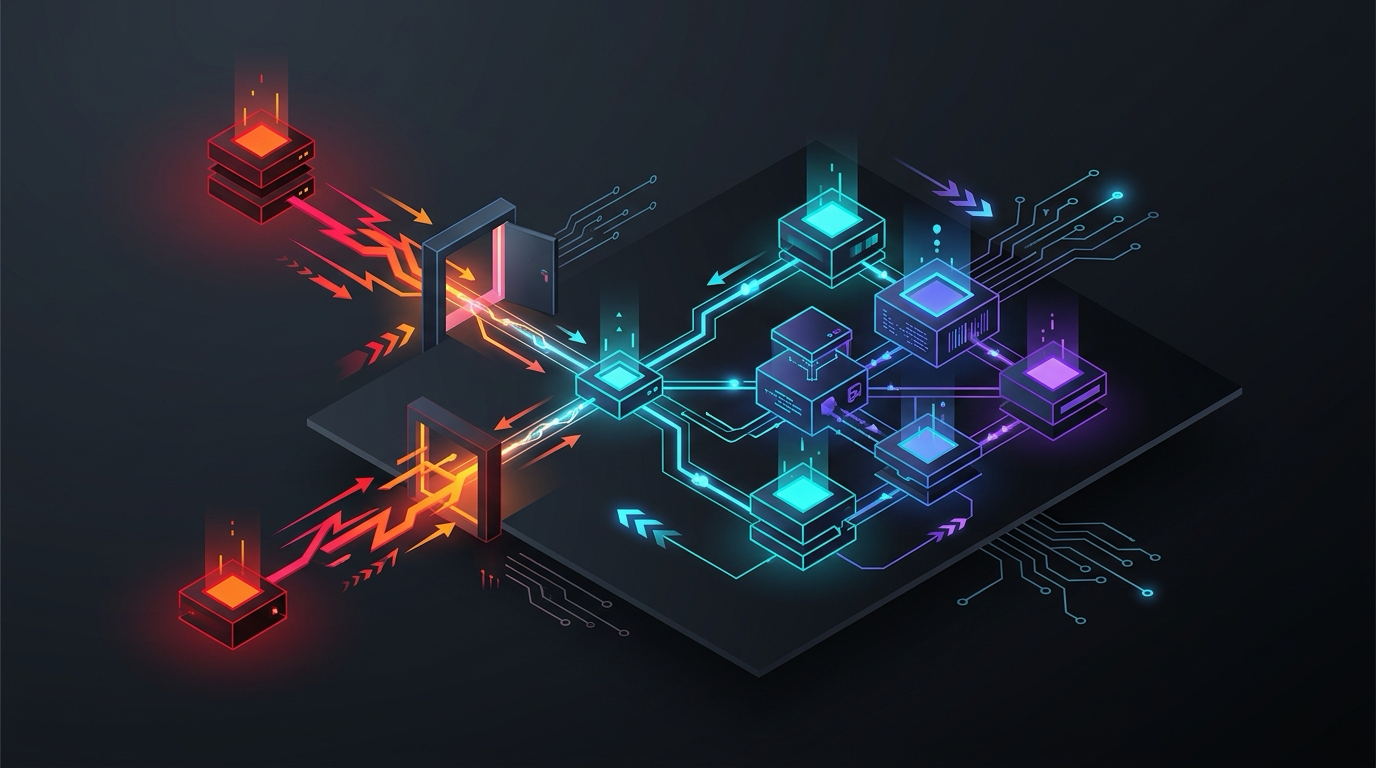
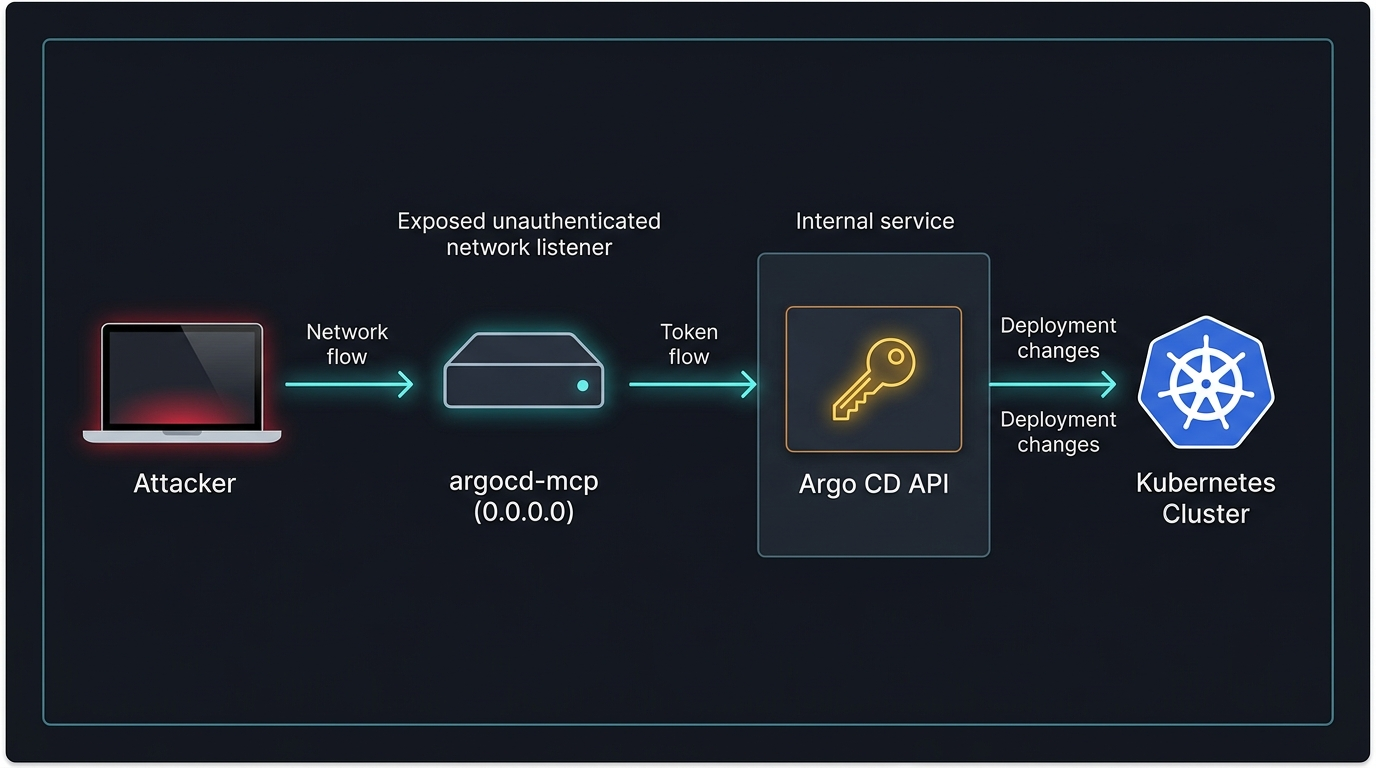
Make CVE post images concrete: real labels, hypothetical scenarios, product marks
Images were vague/generic (a circuit board glowing red regardless of what
the CVE actually was). Reworked the pipeline so the researched claude -p
call also authors per-image "image_scenes" (hero/diagram/impact), each
grounded in the actual facts it found for THIS vulnerability - real
component/product names as short labels, a genuine infographic-style flow
diagram for the attack path, hypothetical scenario art for hero/impact,
and recognizable product marks (e.g. Kubernetes) as editorial illustration
where genuinely relevant instead of a blanket "no text/no logos" rule.

Bumped AGY_TIMEOUT_SEC 300->420 and AGY_ATTEMPTS 2->3 for the added
complexity; retested and all 3 images succeeded on the first attempt.

Replaced today's argocd-mcp post's 3 images with new ones built from the
same real facts (attacker -> argocd-mcp (0.0.0.0) -> Argo CD API ->
Kubernetes Cluster diagram; Kubernetes-wheel-mark impact art) - same
filenames, no article text changes needed.

Claude-Session: https://claude.ai/code/session_01PsSAnhszVNbm1Sy5EPmtGm

diff --git a/scripts/daily_cve_post.py b/scripts/daily_cve_post.py
@@ -43,48 +43,68 @@ GENERIC_HERO = {
 
 ASSETS_DIR = REPO_ROOT / "public" / "assets" / "cve"
 SITE_BASE = "/exceptional-blogs/"  # must match vite.config.ts `base`
-AGY_TIMEOUT_SEC = 300
-AGY_ATTEMPTS = 2
+AGY_TIMEOUT_SEC = 420
+AGY_ATTEMPTS = 3
 
 
-def generate_images(c: dict, slug: str) -> dict:
+FALLBACK_SCENES = {
+    "hero": {"description": "A hypothetical scenario illustration: an attacker "
+             "figure reaching through an open gate into a server room.", "labels": []},
+    "diagram": {"description": "A technical flow diagram: attacker box, arrow "
+                "into the vulnerable component, arrow into what it exposes.",
+                "labels": ["Attacker", "Vulnerable Service", "Compromised System"]},
+    "impact": {"description": "A scenario illustration of the breach's real-world "
+               "consequence spreading outward from the compromised system.", "labels": []},
+}
+
+
+def generate_images(c: dict, slug: str, image_scenes: dict | None = None) -> dict:
     """Ask agy for 3 dedicated images (hero + 2 inline) for this post.
+
+    image_scenes (from the researched claude -p call, see build_prompt's
+    "image_scenes" key) grounds each image in what actually happened for
+    THIS CVE - real component/product names as short labels, a genuine
+    infographic-style diagram for the attack flow, a hypothetical scenario
+    depiction for the hero/impact - rather than a generic circuit-board
+    cliche reused every time. Falls back to FALLBACK_SCENES if missing.
 
     Never blocks a post on image failure - any image agy fails to produce
     is simply omitted, and write_article() falls back to GENERIC_HERO for
-    the hero slot if needed. Kept all three prompts abstract (no requested
-    labeled text/diagrams) - a labeled-diagram request measurably took much
-    longer and timed out more often in testing than plain abstract art.
+    the hero slot if needed.
     """
     ASSETS_DIR.mkdir(parents=True, exist_ok=True)
+    scenes = image_scenes if isinstance(image_scenes, dict) else {}
     specs = [
         ("hero", "hero/banner image (1200x630)",
-         f"an abstract technical illustration for a blog post about {c['cve_id']}, a "
-         f"{c['severity']} severity vulnerability (CVSS {c['cvss']}). Circuit/network "
-         "motif, dark background, a red accent marking the vulnerability point. No "
-         "text or lettering anywhere in the image.",
+         scenes.get("hero") or FALLBACK_SCENES["hero"],
          "Hero illustration of the vulnerability."),
-        ("diagram", "abstract illustration",
-         "an abstract illustration representing the attack flow for this bug: "
-         f"{c['description'][:300]}. Convey intrusion/data flow through visual "
-         "metaphor only (arrows, connected nodes, a breach point) - no readable "
-         "text, labels, or logos anywhere in the image, dark theme matching a "
-         "security blog.",
-         "Illustration of the vulnerable component interaction."),
-        ("impact", "abstract illustration",
-         f"an abstract illustration representing the real-world impact or blast radius "
-         f"of exploiting {c['cve_id']} (CVSS {c['cvss']}). Dark theme, no text.",
+        ("diagram", "technical infographic diagram",
+         scenes.get("diagram") or FALLBACK_SCENES["diagram"],
+         "Diagram of the vulnerable component interaction."),
+        ("impact", "scenario illustration",
+         scenes.get("impact") or FALLBACK_SCENES["impact"],
          "Illustration of the vulnerability's real-world impact."),
     ]
     images = {}
-    for name, kind, prompt, caption in specs:
+    for name, kind, scene, caption in specs:
         path = ASSETS_DIR / f"{slug}-{name}.png"
+        description = scene.get("description") if isinstance(scene, dict) else str(scene)
+        labels = scene.get("labels") if isinstance(scene, dict) else []
+        labels_line = (
+            f" Include these short labels legibly in the image where they fit "
+            f"naturally: {', '.join(labels)}." if labels else " No text or labels needed."
+        )
         for attempt in range(AGY_ATTEMPTS):
             try:
                 result = subprocess.run(
                     ["agyw", "-p",
                      f"Generate a {kind} and save it as a PNG to the absolute path "
-                     f"{path}. The image should show {prompt}",
+                     f"{path}. The scene: {description}{labels_line} Dark theme "
+                     "matching a security blog. Any product/platform marks shown "
+                     "should be depicted as editorial illustration (commentary on "
+                     "a real vulnerability), not as official vendor artwork - "
+                     "never fabricate a CVE score, statistic, or company name not "
+                     "listed above.",
                      "--dangerously-skip-permissions"],
                     capture_output=True, text=True, timeout=AGY_TIMEOUT_SEC,
                 )
@@ -187,6 +207,10 @@ Output ONLY a single JSON object (no markdown code fences, no commentary before 
 - "excerpt": summary under 200 characters for a card preview
 - "read_time": estimate like "6 min read", based on your body length
 - "attack_style": a short 1-4 word classification of the attack pattern, e.g. "Authentication Bypass", "Remote Code Execution", "SSRF", "Path Traversal", "BOLA / IDOR", "Privilege Escalation", "Enumeration", "Deserialization". Pick the closest fit from the actual mechanism, do not invent a category that doesn't apply.
+- "image_scenes": an object with exactly three keys "hero", "diagram", "impact" - each an object with "description" (2-4 sentences) and "labels" (an array of 0-6 short strings, each under 4 words - real component/product/service names or short attack-step labels ONLY, e.g. "Attacker", "argocd-mcp :8080", "Argo CD API", "ARGOCD_API_TOKEN", "Kubernetes Cluster" - never a fabricated stat, never a CVE score, never invented text). Ground every scene in what you actually found about THIS vulnerability, not a generic "circuit board with a red glow" that could apply to any CVE:
+  - "hero": the overall visual concept as a hypothetical scenario depicting the actual story (e.g. an attacker figure reaching past an open gate into a server room, a fake package unpacking itself). Recognizable stylized marks for real products/platforms involved (e.g. the Kubernetes wheel, a GitHub-style octocat silhouette, a generic cloud/server icon) are fine to reference in the description if genuinely relevant - describe them as commentary/editorial illustration, not as if officially endorsed by the vendor.
+  - "diagram": a real infographic-style flow diagram of the specific attack path from the Technical root cause section - labeled boxes/nodes connected by arrows showing the actual sequence (attacker -> vulnerable component -> what it reaches). This should look like a genuine technical diagram, not pure abstract art.
+  - "impact": a scenario or infographic depicting the specific real-world consequence from the Real-world impact section (e.g. a compromised cluster, a supply-chain style spread) - can include the same short labels convention, keep it visual-first not text-heavy.
 - "body": the full article body as Markdown (no top-level H1, no frontmatter), 900-1400 words, professional prose, no em dashes, no filler. Use "##" headings. Structure:
   1. What happened - plain-language summary of the bug and why it was disclosed.
   2. Affected software and versions.
@@ -300,7 +324,7 @@ def main() -> int:
     if gen is None:
         return 1
 
-    images = generate_images(chosen, slug)
+    images = generate_images(chosen, slug, gen.get("image_scenes"))
     path = write_article(chosen, gen, slug, today, images)
     image_paths = [REPO_ROOT / "public" / img["rel"] for img in images.values()]
 
